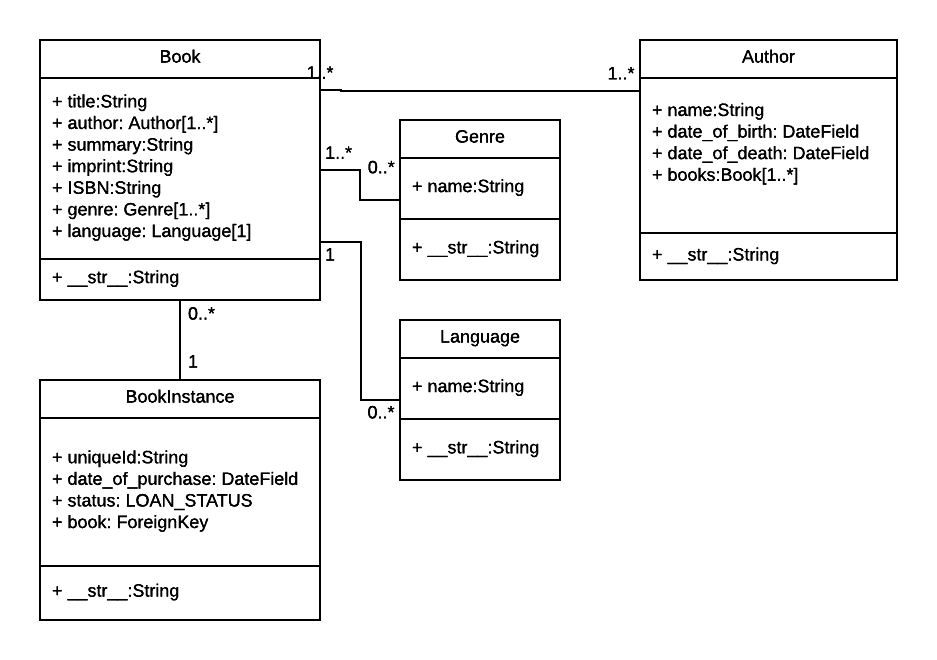
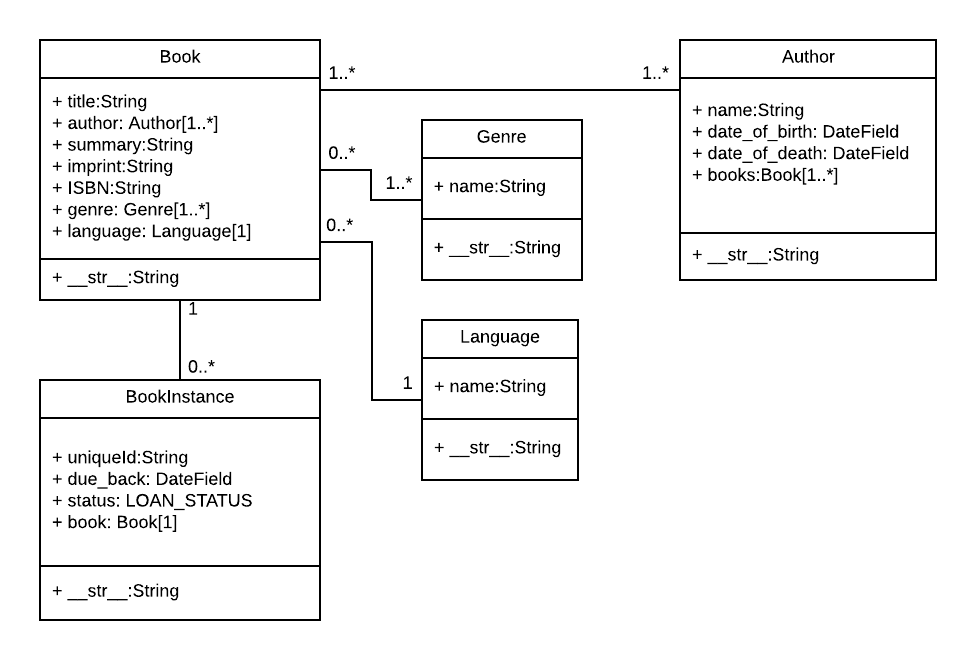
Fix up UML cardinarlity

diff --git a/README.md b/README.md
@@ -12,11 +12,7 @@ The main features that have currently been implemented are:
 * Admin users can create and manage models. The admin has been optimised (the basic registration is present in admin.py, but commented out).
 * Librarians can renew reserved books
 
-![](https://github.com/hamishwillee/django_local_library/blob/master/catalog/static/images/local_library_model_uml.png)
-
-
-
-
+![Local Library Model](https://github.com/mdn/django_local_library/blob/master/catalog/static/images/local_library_model_uml.png)
 
 
 For more information see the associated [MDN tutorial home page](https://developer.mozilla.org/en-US/docs/Learn/Server-side/Django/Tutorial_local_library_website).
